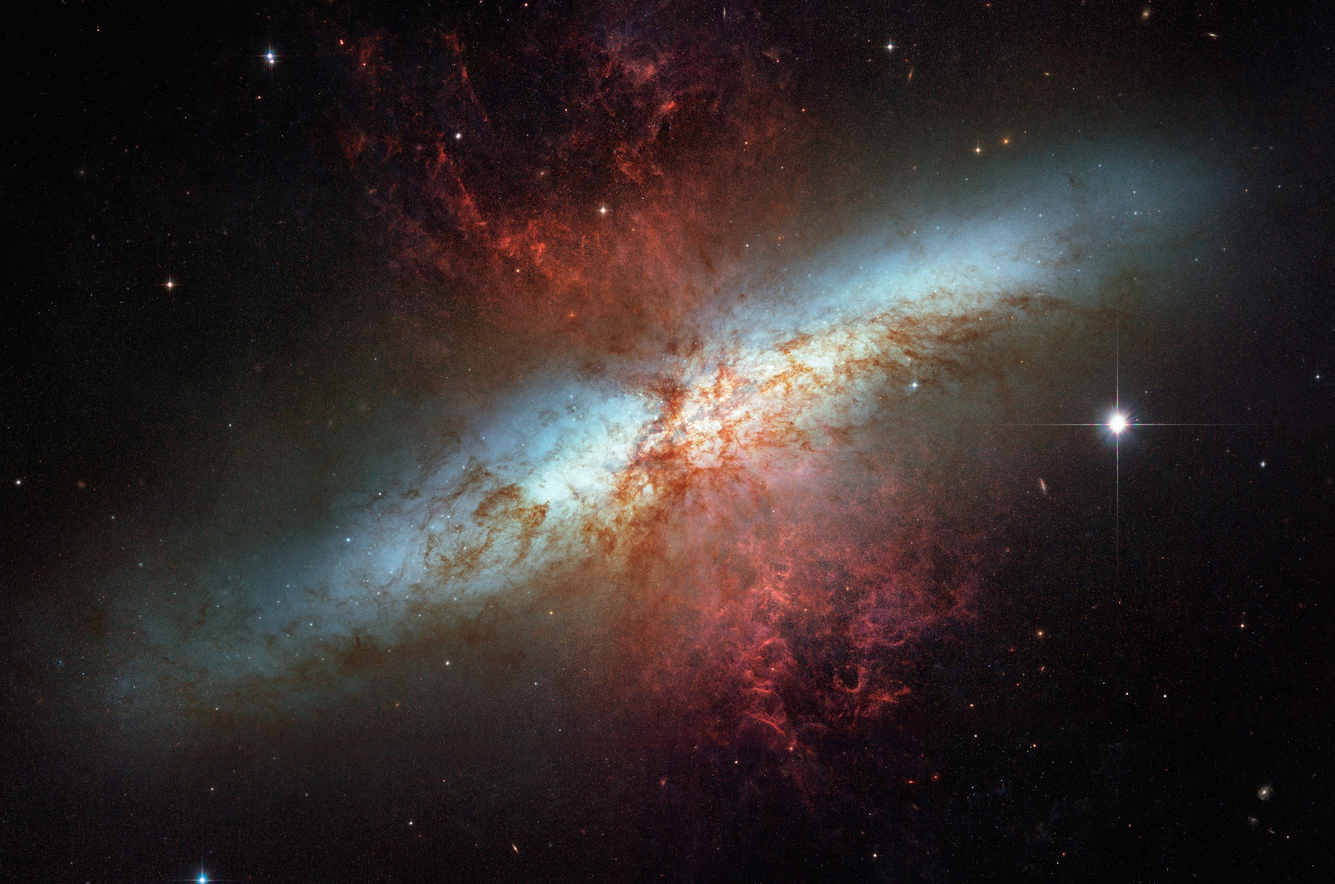
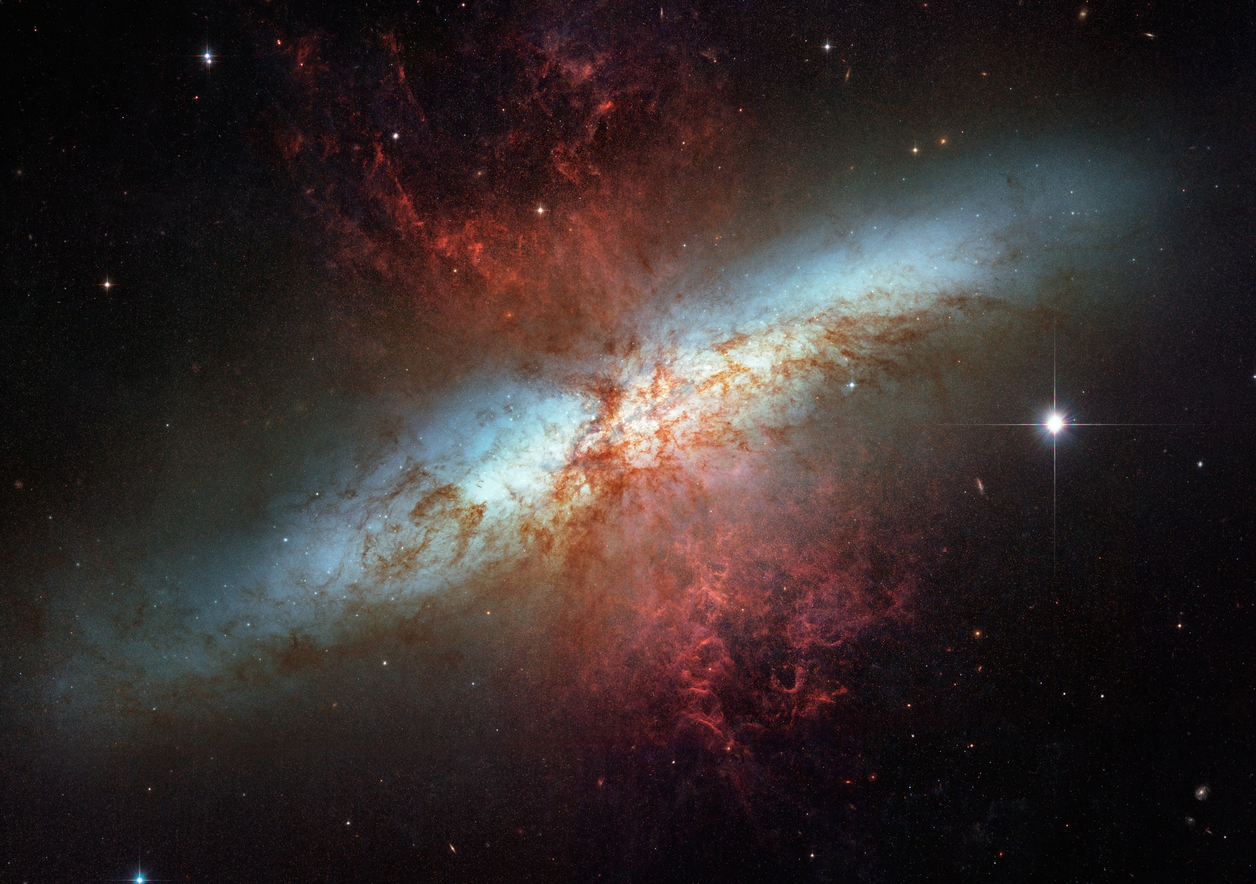
- Update image
- Links have pointer cursor
- Add blog 'page'
- Remove slim jQuery, add minified jQuery

diff --git a/index.html b/index.html
@@ -5,7 +5,7 @@
         <meta name="viewport" content="width=device-width, initial-scale=1, shrink-to-fit=no">
 
         <!-- jQuery -->
-        <script src="https://code.jquery.com/jquery-3.2.1.slim.min.js" integrity="sha384-KJ3o2DKtIkvYIK3UENzmM7KCkRr/rE9/Qpg6aAZGJwFDMVNA/GpGFF93hXpG5KkN" crossorigin="anonymous"></script>
+        <script src="https://code.jquery.com/jquery-3.4.1.min.js" integrity="sha256-CSXorXvZcTkaix6Yvo6HppcZGetbYMGWSFlBw8HfCJo=" crossorigin="anonymous"></script>
 
         <!-- Bootstrap -->
         <link rel="stylesheet" href="https://maxcdn.bootstrapcdn.com/bootstrap/4.0.0/css/bootstrap.min.css" integrity="sha384-Gn5384xqQ1aoWXA+058RXPxPg6fy4IWvTNh0E263XmFcJlSAwiGgFAW/dAiS6JXm" crossorigin="anonymous">
@@ -19,22 +19,26 @@
     </head>
     <body>
         <div class="fullHeight fullWidth">
+            <!-- Navbar -->
             <nav id="pageNavbar" class="navbar navbar-expand-lg homeBackground">
                 <div class="navbar navbar-collapse">
                     <ul class="navbar-nav">
                         <!-- Items in the navbar need to have the data-section
-                            value that matches their section id-->
+                    value that matches their section id-->
                         <li class="navItem nav-item" data-section="home">
                             <a id="linkHome" class="nav-link">Home</a>
                         </li>
                         <li class="navItem nav-item" data-section="papers">
                             <a id="linkPaper" class="nav-link">Papers</a>
                         </li>
+                        <li class="navItem nav-item" data-section="blog">
+                            <a id="linkBlog" class="nav-link">Blog</a>
+                        </li>
                     </ul>
                 </div>
             </nav>
 
-            <!-- Home page -->
+            <!-- Home Page -->
             <div id="home" class="pageSection fullHeight fullWidth backgroundShift">
                 <div class="fullHeight fullWidth homeBackground table">
                     <div id="header">
@@ -47,10 +51,17 @@
                 </div>
             </div>
 
-            <!-- Paper page -->
+            <!-- Paper Page -->
             <div id="papers" class="pageSection hidden">
                 <a href="https://ui.adsabs.harvard.edu/search/q=author%3A%22Indahl%2C%20Briana%22&sort=date%20desc%2C%20bibcode%20desc&p_=0">Papers</a>
             </div>
+
+            <!-- Blog Page -->
+            <div id="blog" class="pageSection hidden">
+                <h1>blog</h1>
+            </div>
+
+            <!-- End Page -->
         </div>
 
         <script type="text/javascript">
@@ -59,6 +70,10 @@
                     jQuery(".pageSection").addClass("hidden");
                     jQuery(`#${jQuery(this).data("section")}`).removeClass("hidden");
                 })
+
+                jQuery.get('blog/blog.txt', function(data) {
+                    console.log(data);
+                });
             })
         </script>
     </body>

diff --git a/public/css/generalStyle.css b/public/css/generalStyle.css
@@ -28,6 +28,10 @@ html, body {
     color: white;
 }
 
+.nav-item {
+    cursor: pointer;
+}
+
 /* Home */
 .homeBackground {
     background-image: url("../images/croppedM82.jpg");
